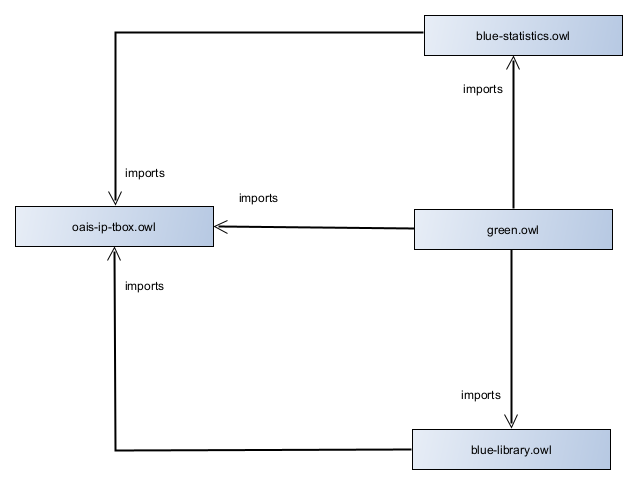
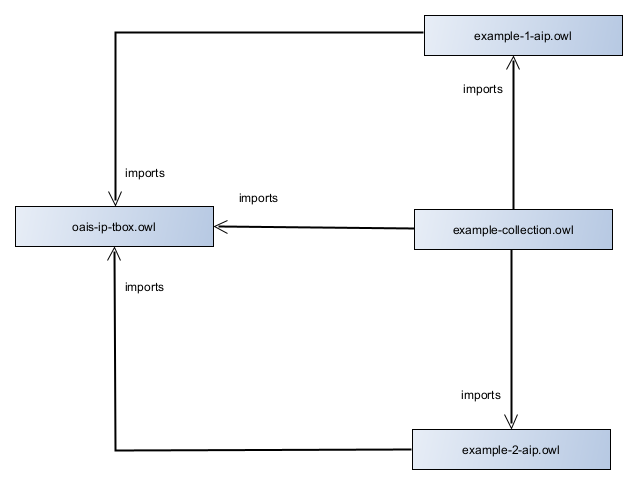
refactored importing-mechanism-oais-ip-collection-project.png figure and updated README.md file.

diff --git a/README.md b/README.md
@@ -14,6 +14,8 @@ This project structure includes:
   
 ## Importing Mechanism
 
+![Importing mechanism for OAIS IP ontology](images/importing-mechanism-oais-ip-collection-project.png)
+
 The **green.owl** ontology file imports the following ontology files:
 
 - **blue-statistics.owl** that imports **oais-ip-tbox.owl**
